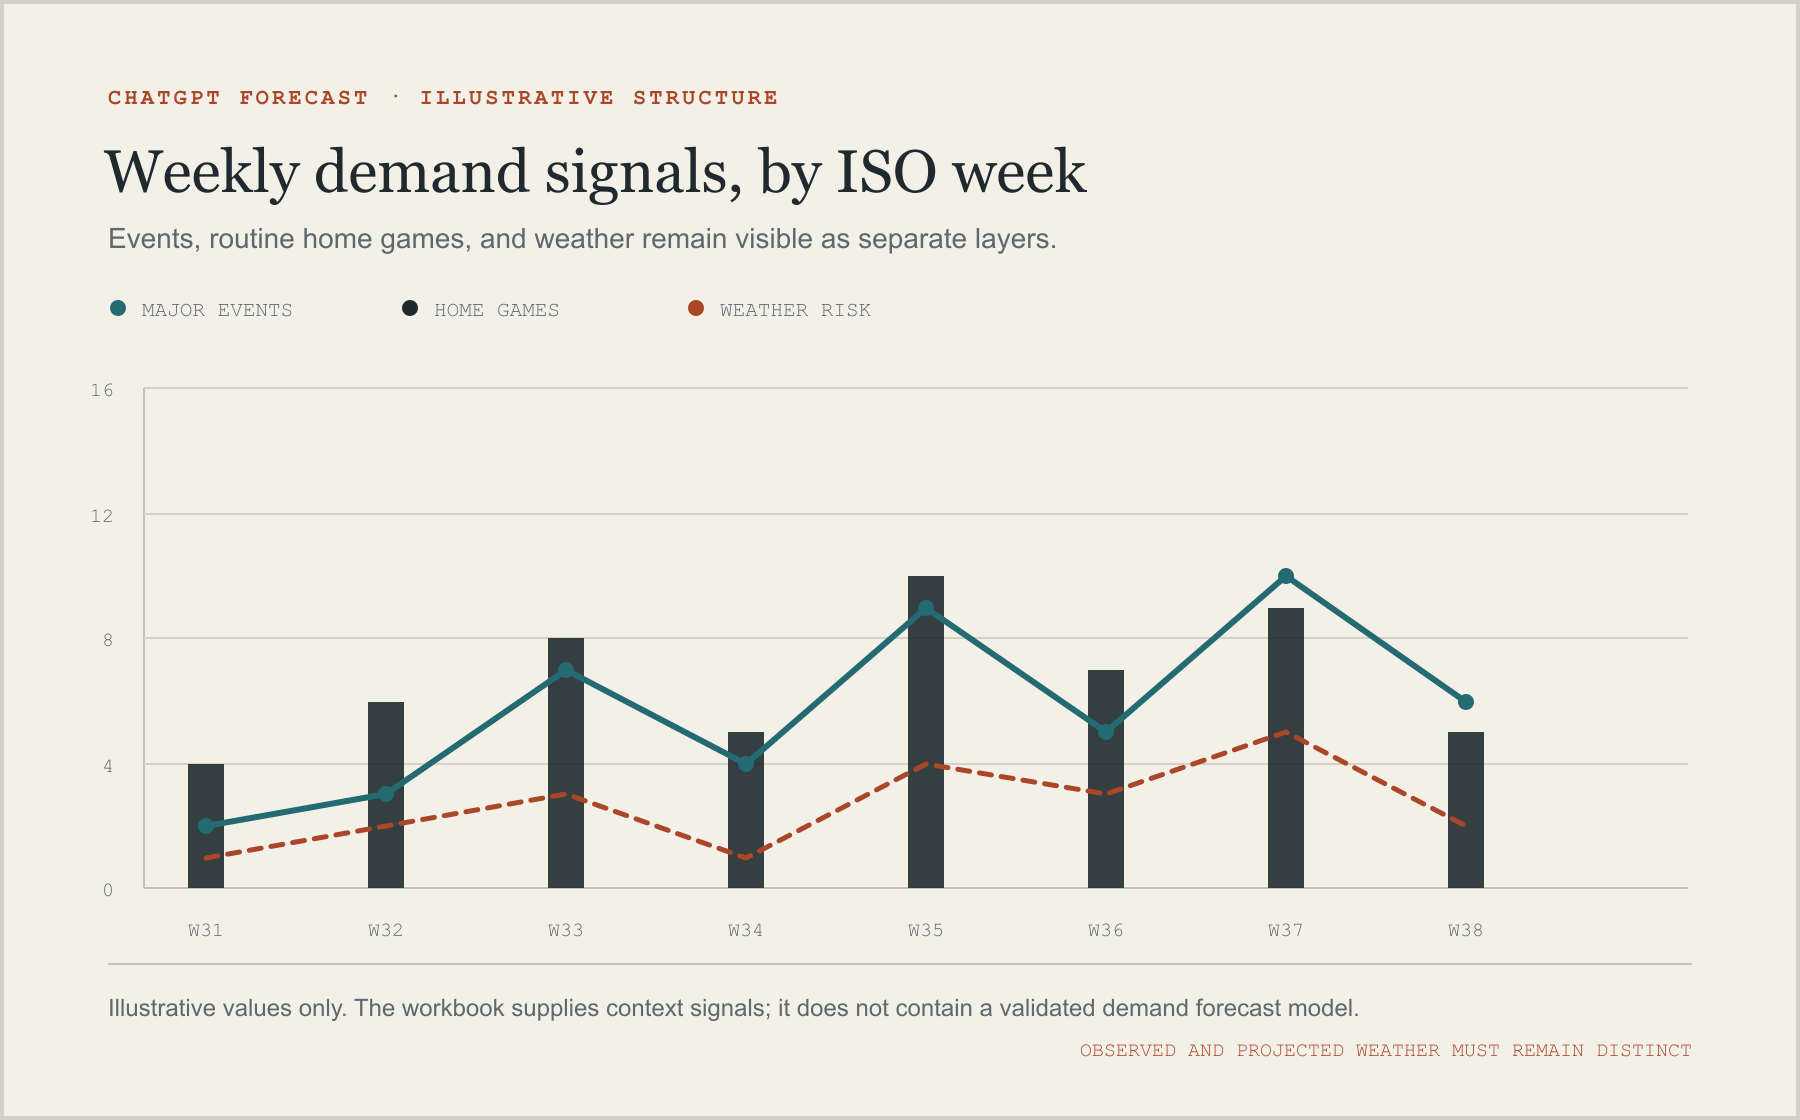
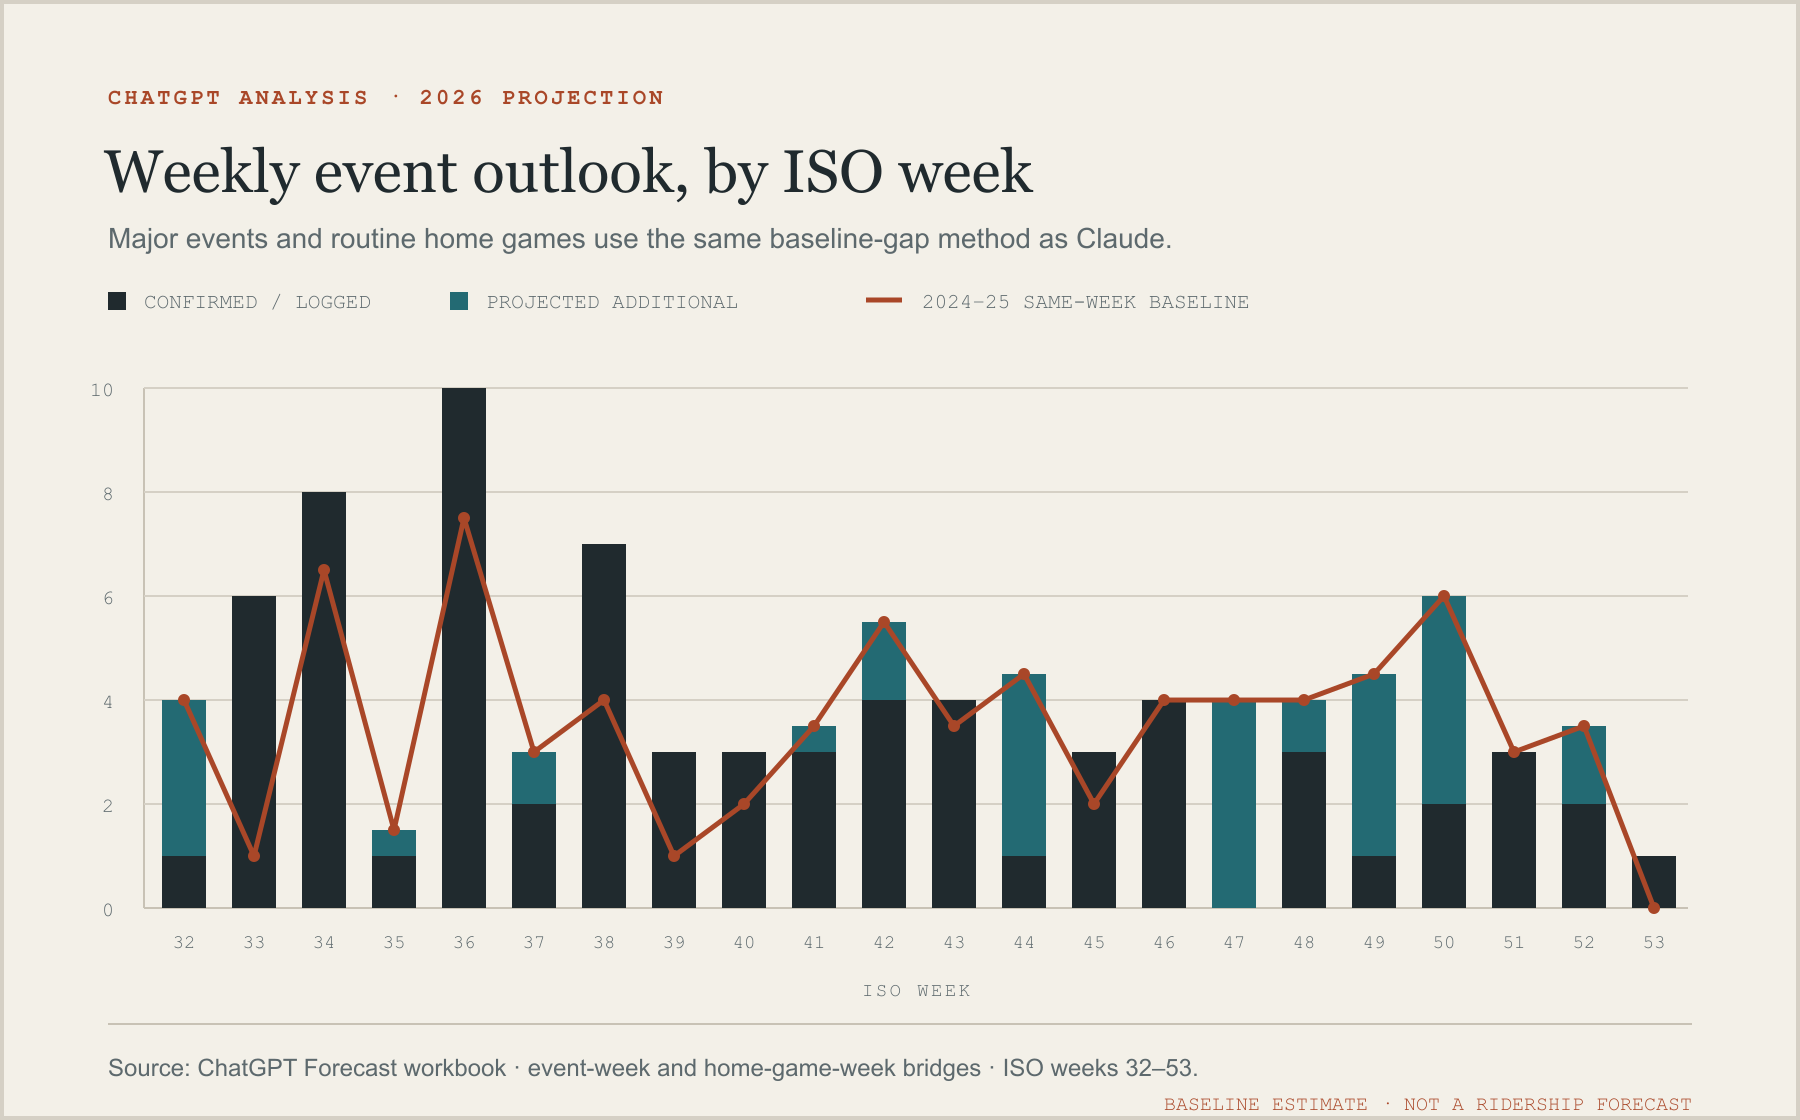
Align ChatGPT forecast chart to workbook

diff --git a/index.html b/index.html
@@ -400,14 +400,14 @@
       </article>
     </div>
 
-    <div class="forecast-visuals" aria-label="ChatGPT Forecast visual references">
+    <div class="forecast-visuals" aria-label="ChatGPT Analysis visual references">
       <figure class="forecast-visual">
         <img src="demand-forecast-card.svg" alt="ChatGPT Forecast project card summarizing canonical events, home games, weather-risk days, and the ISO-week join">
         <figcaption>Project card · <a href="demand-forecast-card.svg">SVG</a> · <a href="demand-forecast-card.png">PNG</a></figcaption>
       </figure>
       <figure class="forecast-visual">
-        <img src="demand-forecast-chart.svg" alt="Illustrative weekly demand signals chart with separate major-event, home-game, and weather-risk layers">
-        <figcaption>Illustrative chart · not model output · <a href="demand-forecast-chart.svg">SVG</a> · <a href="demand-forecast-chart.png">PNG</a></figcaption>
+        <img src="demand-forecast-chart.svg" alt="ChatGPT Analysis chart showing confirmed or logged events, projected additional events, and the 2024 to 2025 same-week baseline for ISO weeks 32 through 53 of 2026">
+        <figcaption>ChatGPT Analysis · workbook-derived projection · <a href="demand-forecast-chart.svg">SVG</a> · <a href="demand-forecast-chart.png">PNG</a></figcaption>
       </figure>
     </div>
 
